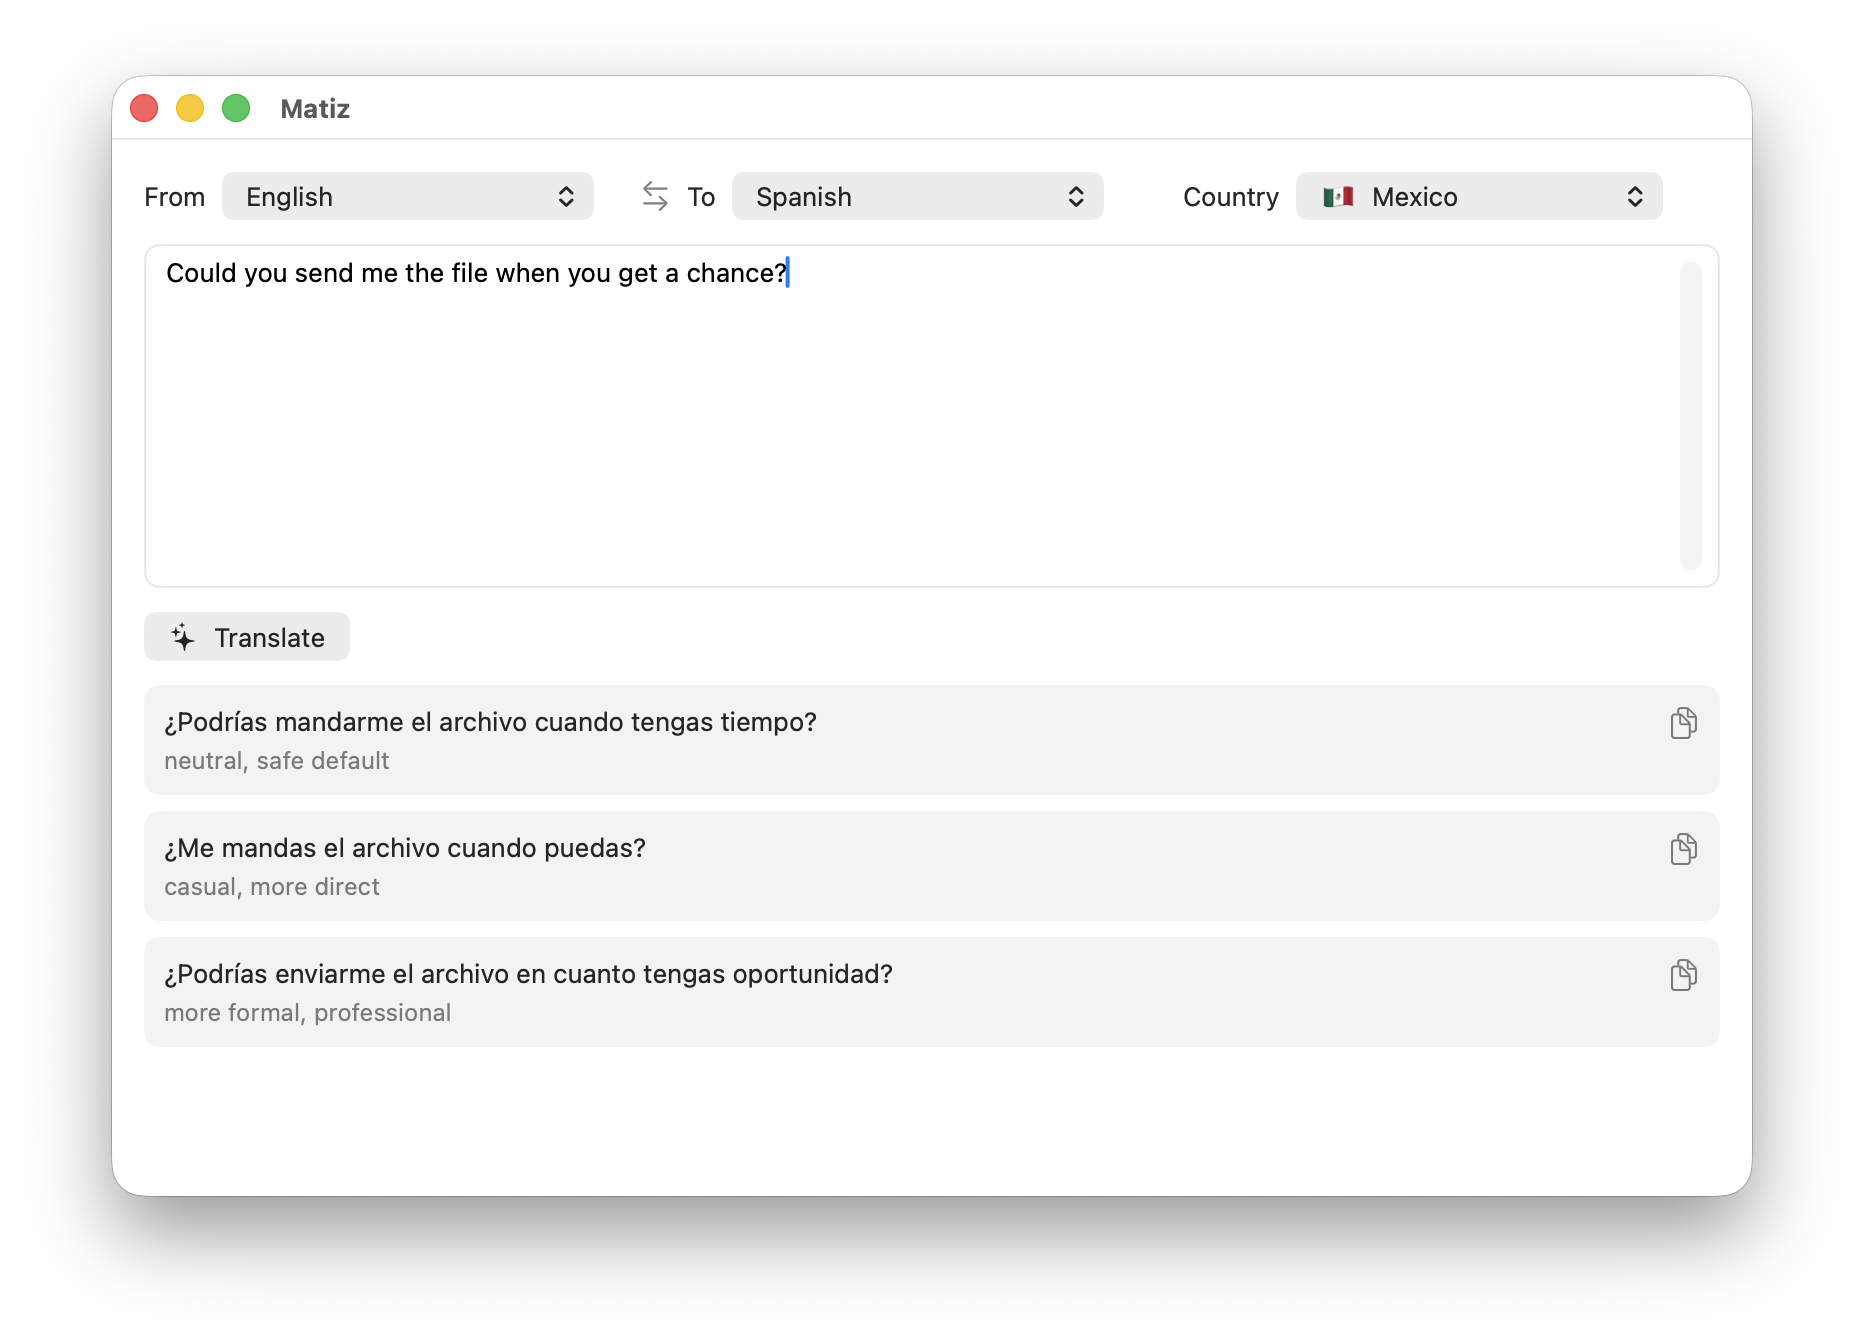
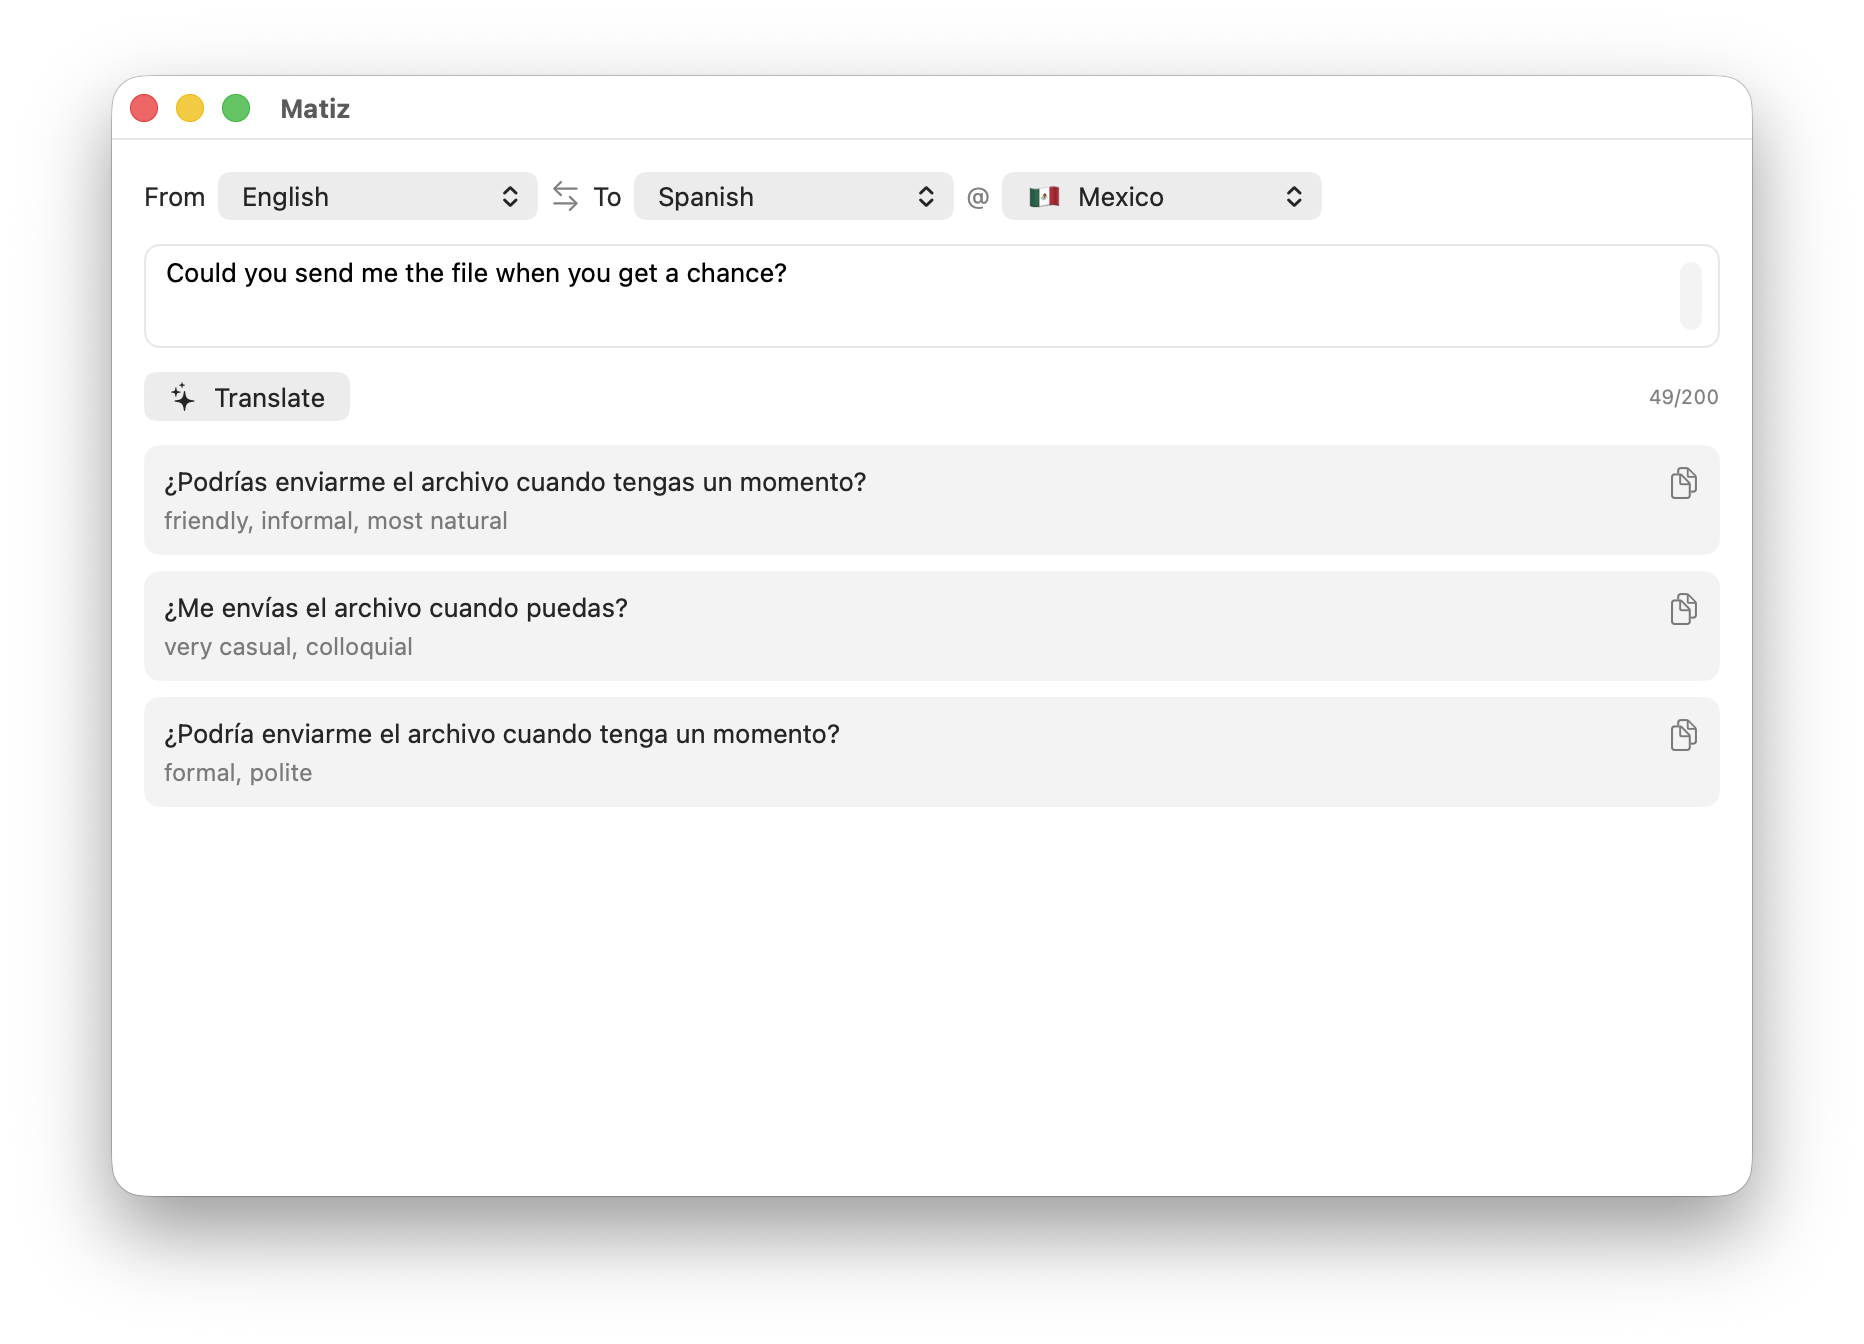
Cap source text at 200 characters, shrink the input box and compact the language bar
Matiz is for phrases and sentences rather than documents, and the UI now says
so: the editor is a fixed two-line field with a placeholder and a live
character counter, source text is clamped to a shared limit in MatizKit, and
the From/To/Country pickers sit side by side with the country labelled by an
@ sign. README screenshot recaptured to match.

diff --git a/Sources/Matiz/ContentView.swift b/Sources/Matiz/ContentView.swift
@@ -10,12 +10,7 @@ struct ContentView: View {
         VStack(alignment: .leading, spacing: 12) {
             languageBar
 
-            TextEditor(text: $model.sourceText)
-                .font(.system(.body))
-                .frame(minHeight: 100, maxHeight: 160)
-                .padding(6)
-                .background(RoundedRectangle(cornerRadius: 8).fill(Color(nsColor: .textBackgroundColor)))
-                .overlay(RoundedRectangle(cornerRadius: 8).strokeBorder(.quaternary))
+            sourceEditor
 
             HStack {
                 Button(action: { model.translate(model: claudeModel) }) {
@@ -29,6 +24,11 @@ struct ContentView: View {
                         .controlSize(.small)
                 }
                 Spacer()
+
+                Text("\(model.sourceText.count)/\(TranslationRequest.maxSourceLength)")
+                    .font(.caption)
+                    .monospacedDigit()
+                    .foregroundStyle(model.remainingCharacters == 0 ? .red : .secondary)
             }
 
             if let errorMessage = model.errorMessage {
@@ -74,12 +74,32 @@ struct ContentView: View {
         fflush(stdout)
     }
 
-    private var languageBar: some View {
-        HStack(spacing: 8) {
-            Picker("From", selection: $model.sourceLanguage) {
-                ForEach(Catalog.languages) { Text($0.name).tag($0) }
+    /// Deliberately small: two lines and a hard character cap, so it reads as a place
+    /// for a phrase or sentence rather than a document.
+    private var sourceEditor: some View {
+        TextEditor(text: $model.sourceText)
+            .font(.system(.body))
+            .frame(height: 40)
+            .padding(6)
+            .background(RoundedRectangle(cornerRadius: 8).fill(Color(nsColor: .textBackgroundColor)))
+            .overlay(RoundedRectangle(cornerRadius: 8).strokeBorder(.quaternary))
+            .overlay(alignment: .topLeading) {
+                if model.sourceText.isEmpty {
+                    Text("Phrase or sentence to translate")
+                        .foregroundStyle(.tertiary)
+                        .padding(.horizontal, 11)
+                        .padding(.vertical, 6)
+                        .allowsHitTesting(false)
+                }
             }
-            .frame(minWidth: 150, maxWidth: 240, alignment: .leading)
+    }
+
+    /// From ⇄ To @ Country, kept tight: the labels sit outside the pickers so the
+    /// pickers' frames don't pad out the gaps between them.
+    private var languageBar: some View {
+        HStack(spacing: 6) {
+            Text("From")
+            languagePicker(selection: $model.sourceLanguage)
 
             Button(action: model.swapLanguages) {
                 Image(systemName: "arrow.left.arrow.right")
@@ -87,22 +107,32 @@ struct ContentView: View {
             .buttonStyle(.borderless)
             .help("Swap languages")
 
-            Picker("To", selection: $model.targetLanguage) {
-                ForEach(Catalog.languages) { Text($0.name).tag($0) }
-            }
-            .frame(minWidth: 150, maxWidth: 240, alignment: .leading)
+            Text("To")
+            languagePicker(selection: $model.targetLanguage)
 
             if !model.countryOptions.isEmpty {
+                Text("@")
+                    .foregroundStyle(.secondary)
+                    .help("Country")
                 Picker("Country", selection: $model.country) {
                     ForEach(model.countryOptions) { country in
                         Text("\(country.flag)  \(country.name)").tag(Country?.some(country))
                     }
                 }
-                .frame(minWidth: 150, maxWidth: 240, alignment: .leading)
+                .labelsHidden()
+                .frame(minWidth: 100, maxWidth: 160)
             }
 
             Spacer()
         }
+    }
+
+    private func languagePicker(selection: Binding<Language>) -> some View {
+        Picker("Language", selection: selection) {
+            ForEach(Catalog.languages) { Text($0.name).tag($0) }
+        }
+        .labelsHidden()
+        .frame(minWidth: 100, maxWidth: 160)
     }
 }
 

diff --git a/Sources/Matiz/TranslationViewModel.swift b/Sources/Matiz/TranslationViewModel.swift
@@ -8,7 +8,12 @@ final class TranslationViewModel {
     private static let defaultSourceLanguage = Catalog.languages.first { $0.code == "en" }!
     private static let defaultTargetLanguage = Catalog.languages.first { $0.code == "es" }!
 
-    var sourceText = ""
+    var sourceText = "" {
+        didSet {
+            let clamped = TranslationRequest.clampSource(sourceText)
+            if clamped != sourceText { sourceText = clamped }
+        }
+    }
     var sourceLanguage = TranslationViewModel.savedLanguage(forKey: "lastSourceLanguage", default: defaultSourceLanguage) {
         didSet { UserDefaults.standard.set(sourceLanguage.code, forKey: "lastSourceLanguage") }
     }
@@ -30,6 +35,8 @@ final class TranslationViewModel {
     private(set) var errorMessage: String?
 
     var countryOptions: [Country] { Catalog.countries(for: targetLanguage) }
+
+    var remainingCharacters: Int { TranslationRequest.maxSourceLength - sourceText.count }
 
     var canTranslate: Bool {
         !sourceText.trimmingCharacters(in: .whitespacesAndNewlines).isEmpty && !isTranslating

diff --git a/Sources/matiz-tests/main.swift b/Sources/matiz-tests/main.swift
@@ -24,6 +24,18 @@ func expectThrows(_ label: String, _ body: () throws -> Void) {
     }
 }
 
+// TranslationRequest.clampSource
+
+do {
+    let short = "Could you send me the file?"
+    expect(TranslationRequest.clampSource(short) == short, "short source text is left alone")
+    let long = String(repeating: "a", count: TranslationRequest.maxSourceLength + 50)
+    expect(TranslationRequest.clampSource(long).count == TranslationRequest.maxSourceLength,
+           "long source text is trimmed to the limit")
+    let exact = String(repeating: "é", count: TranslationRequest.maxSourceLength)
+    expect(TranslationRequest.clampSource(exact) == exact, "text at the limit is left alone")
+}
+
 // VariantParser
 
 do {

diff --git a/Sources/MatizKit/Models.swift b/Sources/MatizKit/Models.swift
@@ -35,6 +35,15 @@ public struct Country: Hashable, Identifiable, Sendable {
 }
 
 public struct TranslationRequest: Sendable {
+    /// Matiz translates phrases and sentences, not documents, so source text is kept
+    /// short enough for that: roughly a couple of sentences.
+    public static let maxSourceLength = 200
+
+    /// Trims `text` to `maxSourceLength` characters, or returns it as-is if it fits.
+    public static func clampSource(_ text: String) -> String {
+        text.count > maxSourceLength ? String(text.prefix(maxSourceLength)) : text
+    }
+
     public let sourceText: String
     public let sourceLanguage: Language
     public let targetLanguage: Language

diff --git a/README.md b/README.md
@@ -3,10 +3,10 @@
   <img src="docs/banner-light.svg" alt="Matiz — translations in every shade of meaning">
 </picture>
 
-A small macOS translation app. Give it a source string, a source language, a target
-language and a country, and it returns 1–3 translation variants, each with a short
-note ("more formal", "casual, spoken", …) so you can pick the right register for the
-right place.
+A small macOS translation app for phrases and sentences, not documents. Give it a
+short piece of text, a source language, a target language and a country, and it
+returns 1–3 translation variants, each with a short note ("more formal", "casual,
+spoken", …) so you can pick the right register for the right place.
 
 <p align="center">
   <img src="docs/screenshot.png" width="700" alt="Matiz translating an English sentence into three Spanish variants">
